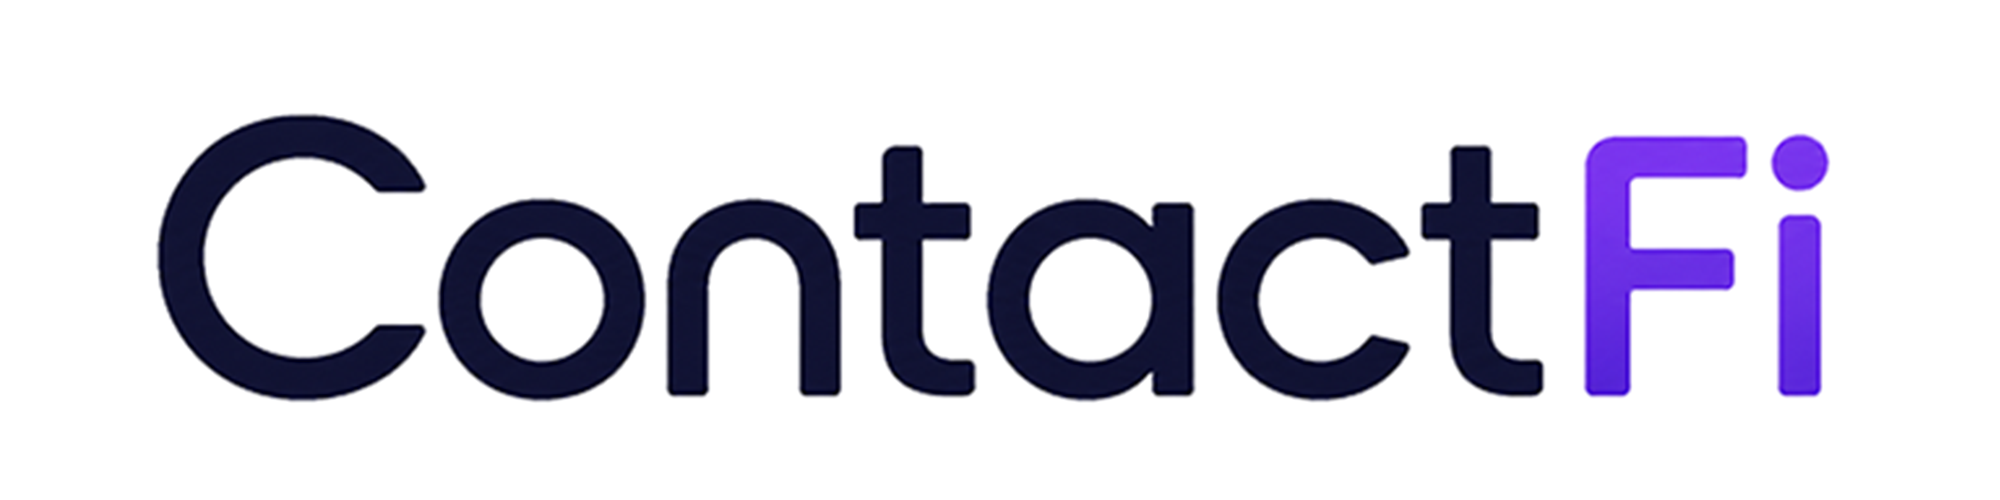
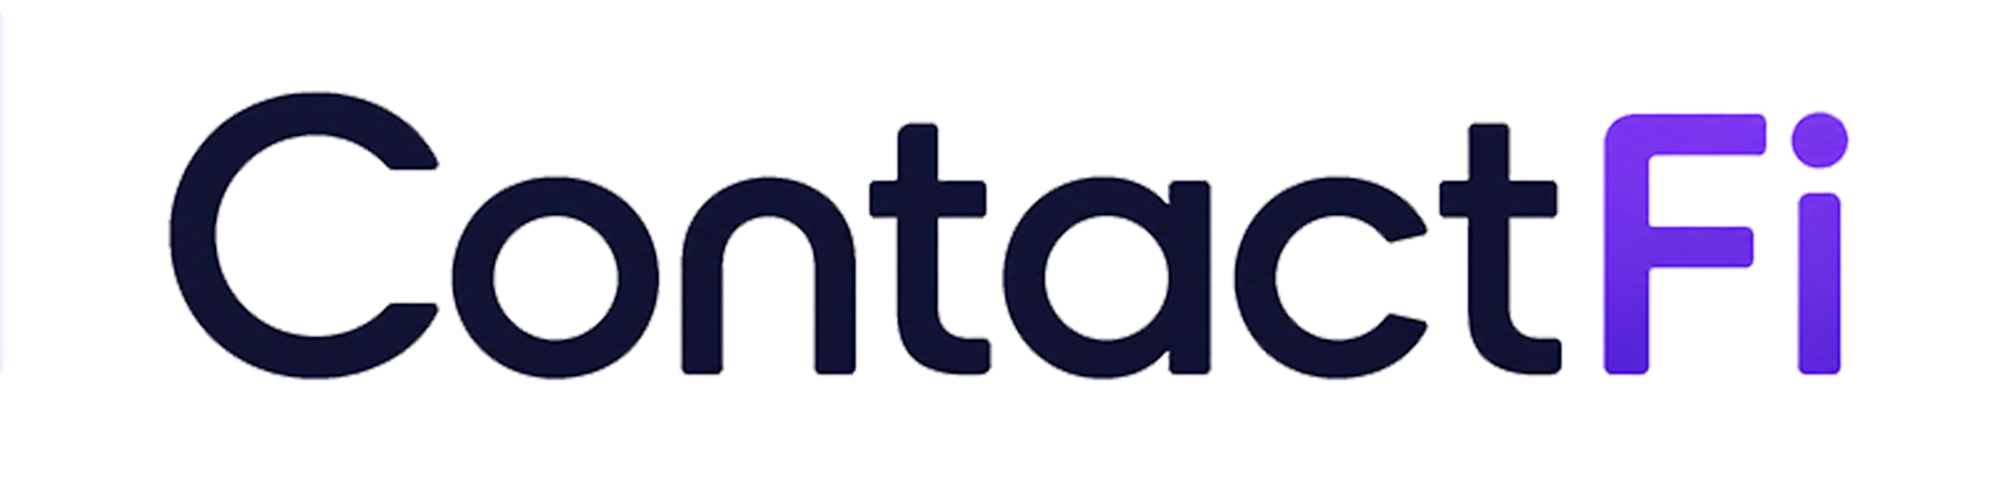
feat: finalize landing page branding and profile UX polish

Changed region(s): [[0.062, 0.21, 0.93, 0.81], [0.093, 0.18, 0.217, 0.39]]

diff --git a/src/app/page.tsx b/src/app/page.tsx
@@ -1,7 +1,8 @@
 "use client";
 import { motion } from "framer-motion";
 import Link from "next/link";
-import { ArrowRight, Code as GithubIcon, Check } from "lucide-react";
+import Image from "next/image";
+import { Code as GithubIcon, Check, ArrowUpRight, Copy } from "lucide-react";
 
 const fadeIn = {
   hidden: { opacity: 0, y: 20 },
@@ -10,10 +11,26 @@ const fadeIn = {
 
 export default function LandingPage() {
   return (
-    <div className="min-h-screen bg-[var(--md-sys-color-background)] text-[var(--md-sys-color-on-background)]">
+    <div className="min-h-screen bg-[#F9FAFB] text-[var(--md-sys-color-on-background)] relative overflow-hidden">
+        <div className="absolute top-[-10%] left-[-10%] w-[50%] h-[50%] bg-blue-100 rounded-full blur-[200px] opacity-30"></div>
+        <div className="absolute top-[20%] right-[-10%] w-[50%] h-[50%] bg-purple-100 rounded-full blur-[200px] opacity-30"></div>
+        <div className="absolute bottom-[-10%] left-[20%] w-[40%] h-[40%] bg-pink-100 rounded-full blur-[200px] opacity-30"></div>
+      
+      {/* Header */}
+      <header className="container mx-auto px-4 pt-12 pb-6 relative z-10">
+        <div className="flex flex-col gap-2">
+            <div className="inline-flex w-fit items-center gap-2 rounded-full border border-[#EDEBFF] bg-[#F9F7FF] px-3 py-1">
+              <span className="text-xs font-medium text-[#6D5DF6]">Powered by Arc</span>
+            </div>
+            <div className="relative w-[180px] h-[36px]">
+                <Image src="/branding/contactfi-wordmark.png" alt="ContactFi" fill className="object-contain" />
+            </div>
+        </div>
+      </header>
+
       {/* Hero */}
-      <section className="container mx-auto flex flex-col items-center justify-center pt-24 pb-16 px-4 text-center">
-        <motion.div initial="hidden" animate="visible" variants={fadeIn} className="inline-flex items-center gap-2 rounded-full border border-[#E5E7EB] bg-[#F3F4F6] px-3 py-1 mb-6">
+      <section className="container mx-auto flex flex-col items-center justify-center pt-16 pb-16 px-4 text-center relative z-10">
+        <motion.div initial="hidden" animate="visible" variants={fadeIn} className="inline-flex items-center gap-2 rounded-full border border-[#E5E7EB] bg-white px-3 py-1 mb-6">
           <span className="h-2 w-2 rounded-full bg-gradient-to-r from-[#6D5DF6] to-[#D64545]"></span>
           <span className="text-xs font-medium text-[#6B7280]">Send USDC on Arc</span>
         </motion.div>
@@ -21,7 +38,7 @@ export default function LandingPage() {
           Send USDC like a message to your contacts.
         </motion.h1>
         <motion.p initial="hidden" animate="visible" variants={fadeIn} className="text-xl text-[#6B7280] mb-10 max-w-lg">
-          No signup required. Just a wallet address.
+          No signup. Just your contacts.
         </motion.p>
         <motion.div initial="hidden" animate="visible" variants={fadeIn} className="flex gap-4">
           <Link href="/contacts" className="rounded-full bg-gradient-to-r from-[#6D5DF6] to-[#D64545] px-8 py-4 font-semibold text-white shadow-lg hover:opacity-90 transition-all">
@@ -35,34 +52,42 @@ export default function LandingPage() {
       </section>
 
       {/* Phone Mockup Placeholder */}
-      <motion.section initial="hidden" animate="visible" variants={fadeIn} className="flex justify-center px-4 mb-24">
+      <motion.section initial="hidden" animate="visible" variants={fadeIn} className="flex justify-center px-4 mb-24 relative z-10">
         <div className="w-64 h-[500px] rounded-[40px] border-8 border-[#1C1C1E] bg-white shadow-2xl overflow-hidden relative">
           <div className="absolute top-0 w-full h-8 bg-black rounded-b-2xl"></div>
-          <div className="p-4 pt-12 text-sm">
-            <div className="text-2xl font-bold mb-8">Contacts</div>
-            <div className="space-y-4">
-                <div className="h-16 rounded-2xl border border-[#E5E7EB] bg-white p-2 flex items-center gap-4">
-                    <div className="w-10 h-10 rounded-full bg-gradient-to-r from-[#6D5DF6] to-[#D64545]"></div>
-                    <div className="w-20 h-4 bg-[#F3F4F6] rounded"></div>
+          <div className="p-4 pt-12 text-sm space-y-4">
+            <div className="bg-gradient-to-br from-[#6D5DF6] to-[#8a7ef9] p-4 rounded-3xl text-white shadow-lg">
+                <div className="text-xs opacity-80">Total Balance</div>
+                <div className="text-2xl font-bold">$1,240.50</div>
+                <div className="text-xs mt-2 opacity-80 font-mono">0xc5c6...dfd8</div>
+            </div>
+            <div className="text-sm font-bold text-gray-500">Recent Transactions</div>
+            <div className="space-y-2">
+                <div className="bg-gray-50 p-2 flex items-center gap-3 border border-gray-100 rounded-2xl">
+                    <div className="w-8 h-8 rounded-full bg-blue-100 flex items-center justify-center font-bold text-blue-600">J</div>
+                    <div className="flex-1 font-semibold text-xs">Jane Doe</div>
+                    <ArrowUpRight className="w-4 h-4 text-red-500"/>
                 </div>
-                <div className="h-16 rounded-2xl border border-[#E5E7EB] bg-white p-2 flex items-center gap-4">
-                    <div className="w-10 h-10 rounded-full bg-[#FF7A59]"></div>
-                    <div className="w-20 h-4 bg-[#F3F4F6] rounded"></div>
+                <div className="bg-gray-50 p-2 flex items-center gap-3 border border-gray-100 rounded-2xl">
+                    <div className="w-8 h-8 rounded-full bg-purple-100 flex items-center justify-center font-bold text-purple-600">A</div>
+                    <div className="flex-1 font-semibold text-xs">Alice</div>
+                    <Check className="w-4 h-4 text-green-500"/>
                 </div>
             </div>
+            <div className="absolute bottom-4 left-4 right-4 bg-[#6D5DF6] text-white p-3 rounded-2xl text-center font-bold text-sm">Send</div>
           </div>
         </div>
       </motion.section>
 
       {/* Problem & Solution */}
-      <section className="py-24 px-4 container mx-auto">
+      <section className="py-24 px-4 container mx-auto relative z-10">
         <div className="grid md:grid-cols-2 gap-12">
-            <div className="p-12 rounded-[32px] border border-[#E5E7EB] bg-white shadow-sm text-center">
+            <div className="p-12 rounded-[32px] border border-[#E5E7EB] bg-gradient-to-b from-white to-[#EBF8FF] shadow-sm text-center">
                 <h2 className="text-sm font-semibold text-[#6B7280] mb-2 uppercase tracking-widest">Problem</h2>
                 <p className="text-3xl font-semibold mb-2">Most payment apps lock users in.</p>
                 <p className="text-[#6B7280]">You can only send money to people already using the same app.</p>
             </div>
-            <div className="p-12 rounded-[32px] border border-[#E5E7EB] bg-gradient-to-b from-[#EDEBFF] to-white shadow-sm text-center">
+            <div className="p-12 rounded-[32px] border border-[#E5E7EB] bg-gradient-to-b from-white to-[#F3EBFF] shadow-sm text-center">
                 <h2 className="text-sm font-semibold text-[#6D5DF6] mb-2 uppercase tracking-widest">Solution</h2>
                 <p className="text-3xl font-semibold mb-2">ContactFi fixes that.</p>
                 <p className="text-[#6B7280]">Send USDC to anyone with a wallet.</p>
@@ -71,14 +96,14 @@ export default function LandingPage() {
       </section>
 
       {/* Features */}
-      <section className="py-24 px-4 container mx-auto">
+      <section className="py-24 px-4 container mx-auto relative z-10">
         <div className="grid md:grid-cols-3 gap-8">
             {[
                 { title: 'Save Contacts', desc: 'Never copy wallet addresses again.' },
                 { title: 'One-Tap Send', desc: 'Choose a contact. Send instantly.' },
                 { title: 'Mobile First', desc: 'Designed for everyday crypto payments.' }
             ].map((f, i) => (
-                <div key={i} className="rounded-[28px] border border-[#E5E7EB] bg-white p-8 shadow-sm">
+                <div key={i} className="rounded-[28px] border border-[#E5E7EB] bg-gradient-to-b from-white to-[#F5F3FF] p-8 shadow-sm">
                     <div className="w-12 h-12 rounded-2xl bg-gradient-to-r from-[#6D5DF6] to-[#D64545] text-white flex items-center justify-center mb-6">
                         <Check className="h-6 w-6" />
                     </div>
@@ -90,12 +115,15 @@ export default function LandingPage() {
       </section>
 
       {/* Footer */}
-      <footer className="py-12 text-center border-t border-[#E5E7EB]">
-        <Link href="https://x.com/ZkFenrir1" target="_blank" className="flex flex-col items-center gap-3">
-          <img src="https://unavatar.io/twitter/ZkFenrir1" alt="ZkFenrir1" className="w-12 h-12 rounded-full border-2 border-[#6D5DF6]" />
-          <span className="font-medium">ZkFenrir1</span>
-        </Link>
-        <div className="mt-6">
+      <footer className="py-12 text-center border-t border-[#E5E7EB] bg-gradient-to-b from-white to-[#FFF5F7] relative z-10">
+        <div className='flex flex-col items-center gap-2 mb-4'>
+            <span className='text-sm text-[#6B7280]'>Built by</span>
+            <Link href="https://x.com/ZkFenrir1" target="_blank" className="flex flex-col items-center gap-3">
+            <img src="https://unavatar.io/twitter/ZkFenrir1" alt="ZkFenrir1" className="w-12 h-12 rounded-full border-2 border-[#6D5DF6]" />
+            <span className="font-medium">ZkFenrir1</span>
+            </Link>
+        </div>
+        <div>
             <Link href="https://github.com" target="_blank" className="text-[#6B7280] hover:text-[#1C1C1E]">GitHub</Link>
         </div>
       </footer>

diff --git a/src/app/settings/profile/page.tsx b/src/app/settings/profile/page.tsx
@@ -1,14 +1,52 @@
 "use client";
 
 import Link from 'next/link';
-import { ArrowLeft, Wallet, Network, Package, Copy, Check } from 'lucide-react';
-import { useState } from 'react';
+import { ArrowLeft, Wallet, Network, Package, Copy, Check, Edit2, Save } from 'lucide-react';
+import { useState, useEffect, useRef } from 'react';
 import { Avatar } from '@/components/ui';
 import { useWallet } from '@/context/WalletContext';
 
 export default function ProfilePage() {
   const { walletAddress, walletName, chainId } = useWallet();
   const [copied, setCopied] = useState(false);
+  const [isEditing, setIsEditing] = useState(false);
+  
+  const [name, setName] = useState('User Name');
+  const [username, setUsername] = useState('@username');
+  const [bio, setBio] = useState('My bio');
+  const [avatar, setAvatar] = useState<string | null>(null);
+  
+  const fileInputRef = useRef<HTMLInputElement>(null);
+
+  useEffect(() => {
+    if(walletAddress) {
+        setName(localStorage.getItem(`profile-${walletAddress}-name`) || 'User Name');
+        setUsername(localStorage.getItem(`profile-${walletAddress}-username`) || '@username');
+        setBio(localStorage.getItem(`profile-${walletAddress}-bio`) || 'My bio');
+        setAvatar(localStorage.getItem(`profile-${walletAddress}-avatar`) || null);
+    }
+  }, [walletAddress]);
+
+  const handleSave = () => {
+    if(walletAddress) {
+        localStorage.setItem(`profile-${walletAddress}-name`, name);
+        localStorage.setItem(`profile-${walletAddress}-username`, username);
+        localStorage.setItem(`profile-${walletAddress}-bio`, bio);
+        if(avatar) localStorage.setItem(`profile-${walletAddress}-avatar`, avatar);
+    }
+    setIsEditing(false);
+  };
+
+  const handleFileChange = (e: React.ChangeEvent<HTMLInputElement>) => {
+    const file = e.target.files?.[0];
+    if (file) {
+      const reader = new FileReader();
+      reader.onloadend = () => {
+        setAvatar(reader.result as string);
+      };
+      reader.readAsDataURL(file);
+    }
+  };
 
   const handleCopy = async () => {
     if (!walletAddress) return;
@@ -24,17 +62,49 @@ export default function ProfilePage() {
   return (
     <div className="min-h-screen bg-[var(--md-sys-color-background)] p-4 pb-24">
       <div className="py-4">
-        <Link href="/settings" className="mb-6 inline-flex items-center gap-2 rounded-full border border-[#E5E7EB] bg-white px-3 py-2 text-sm font-medium text-[#1C1C1E] shadow-sm">
-          <ArrowLeft className="h-4 w-4" />
-          Back
-        </Link>
+        <div className="flex justify-between items-center mb-6">
+            <Link href="/settings" className="inline-flex items-center gap-2 rounded-full border border-[#E5E7EB] bg-white px-3 py-2 text-sm font-medium text-[#1C1C1E] shadow-sm">
+            <ArrowLeft className="h-4 w-4" />
+            Back
+            </Link>
+            <button onClick={() => isEditing ? handleSave() : setIsEditing(true)} className="inline-flex items-center gap-2 rounded-full border border-[#E5E7EB] bg-white px-3 py-2 text-sm font-medium text-[#1C1C1E] shadow-sm">
+                {isEditing ? <><Save className="h-4 w-4" /> Save</> : <><Edit2 className="h-4 w-4" /> Edit Profile</>}
+            </button>
+        </div>
 
         <div className="rounded-[32px] border border-[#E5E7EB] bg-white p-6 shadow-[0_8px_24px_rgba(17,24,39,0.06)]">
-          <div className="mb-6 flex items-center gap-4">
-            <Avatar initials="ME" color="#6D5DF6" size="lg" />
-            <div>
-              <div className="text-lg font-semibold text-[#1C1C1E]">My Profile</div>
-              <div className="text-sm text-[#6B7280]">Wallet details and app info</div>
+          <div className="mb-6 flex flex-col items-center text-center gap-4">
+            <div className='relative cursor-pointer' onClick={() => isEditing && fileInputRef.current?.click()}>
+                {avatar ? <img src={avatar} alt="Avatar" className="w-24 h-24 rounded-full object-cover" /> : <Avatar initials={name.substring(0,2).toUpperCase()} color="#6D5DF6" size="lg" />}
+                {isEditing && <div className='absolute inset-0 bg-black/50 rounded-full flex items-center justify-center text-white'><Edit2 className='w-6 h-6'/></div>}
+                <input type="file" ref={fileInputRef} className='hidden' accept="image/*" onChange={handleFileChange} />
+            </div>
+            
+            <div className='w-full'>
+                <div className="text-xl font-bold text-[#1C1C1E] mb-1">My Profile</div>
+                {isEditing ? (
+                                <div className='space-y-4 w-full text-left'>
+                                    <div>
+                                        <label className='text-xs font-semibold text-[#6B7280]'>Name</label>
+                                        <input type="text" value={name} onChange={(e) => setName(e.target.value)} className="w-full text-lg font-semibold border rounded-lg p-2 mt-1" />
+                                    </div>
+                                    <div>
+                                        <label className='text-xs font-semibold text-[#6B7280]'>Username</label>
+                                        <input type="text" value={username} onChange={(e) => setUsername(e.target.value)} className="w-full text-sm text-[#6B7280] border rounded-lg p-2 mt-1" />
+                                    </div>
+                                    <div>
+                                        <label className='text-xs font-semibold text-[#6B7280]'>Bio</label>
+                                        <textarea value={bio} onChange={(e) => setBio(e.target.value)} className="w-full text-sm text-[#6B7280] border rounded-lg p-2 mt-1" />
+                                    </div>
+                                </div>
+                            ) : (
+                                <div>
+                                    <div className="text-lg font-semibold text-[#1C1C1E]">{name}</div>
+                                    <div className="text-sm text-[#6D5DF6]">{username}</div>
+                                    <div className="text-sm text-[#6B7280] mt-1">{bio}</div>
+                                </div>
+                            )}
+
             </div>
           </div>
 

diff --git a/src/app/settings/page.tsx b/src/app/settings/page.tsx
@@ -1,6 +1,6 @@
 "use client";
 import Link from 'next/link';
-import { useState } from 'react';
+import { useState, useEffect } from 'react';
 import { Card, SectionHeader, Avatar } from '@/components/ui';
 import {
   Moon,
@@ -12,6 +12,7 @@ import {
   ChevronRight,
   Sparkles,
 } from 'lucide-react';
+import { useWallet } from '@/context/WalletContext';
 
 type DialogState = {
   title: string;
@@ -19,8 +20,21 @@ type DialogState = {
 } | null;
 
 export default function SettingsPage() {
+  const { walletAddress } = useWallet();
   const [notifications, setNotifications] = useState(true);
   const [dialog, setDialog] = useState<DialogState>(null);
+  
+  const [profile, setProfile] = useState({ name: 'My Profile', username: '@username', avatar: null as string | null });
+
+  useEffect(() => {
+    if(walletAddress) {
+      setProfile({
+        name: localStorage.getItem(`profile-${walletAddress}-name`) || 'My Profile',
+        username: localStorage.getItem(`profile-${walletAddress}-username`) || '@username',
+        avatar: localStorage.getItem(`profile-${walletAddress}-avatar`) || null,
+      });
+    }
+  }, [walletAddress]);
 
   return (
     <div className="min-h-screen bg-[var(--md-sys-color-background)] p-4 pb-24">
@@ -34,10 +48,14 @@ export default function SettingsPage() {
 
       <Link href="/settings/profile" className="mb-8 block">
         <Card className="flex items-center gap-4 border-none bg-[#EDEBFF]">
-          <Avatar initials="ME" color="#6D5DF6" size="lg" />
+          {profile.avatar ? (
+            <img src={profile.avatar} alt="Avatar" className="w-12 h-12 rounded-full object-cover" />
+          ) : (
+            <Avatar initials={profile.name.substring(0,2).toUpperCase()} color="#6D5DF6" size="lg" />
+          )}
           <div>
-            <div className="font-semibold text-[#2F2A6B]">My Profile</div>
-            <div className="text-sm text-[#6B7280]">Manage your identity</div>
+            <div className="font-semibold text-[#2F2A6B]">{profile.name}</div>
+            <div className="text-sm text-[#6B7280]">{profile.username}</div>
           </div>
           <ChevronRight className="ml-auto h-5 w-5 text-[#6D5DF6]" />
         </Card>

diff --git a/src/components/SendFlow.tsx b/src/components/SendFlow.tsx
@@ -8,7 +8,7 @@ import { Send, CheckCircle2, ExternalLink, Copy, AlertCircle } from 'lucide-reac
 export const SendFlow = ({ recipient, onClose, onTransactionComplete }: { recipient: { name: string; address?: string; wallets?: any[] }; onClose: () => void; onTransactionComplete: (tx: any) => void }) => {
   const { adapter, walletAddress, walletName, chainId, isConnected, refreshChain, switchToArcTestnet } = useWallet();
   const [sendStep, setSendStep] = useState<'network' | 'review' | 'sending' | 'success' | 'error'>('network');
-  const [amount, setAmount] = useState('10');
+  const [amount, setAmount] = useState('');
   const [manualAddress, setManualAddress] = useState(recipient.address || '');
   const [selectedWalletId, setSelectedWalletId] = useState('');
   const [estimatedGas, setEstimatedGas] = useState<string | null>(null);
@@ -34,7 +34,7 @@ export const SendFlow = ({ recipient, onClose, onTransactionComplete }: { recipi
         setSendStep('network');
         return;
       }
-      await prepareReview();
+      setSendStep('review');
     };
     init();
   }, []);
@@ -72,7 +72,7 @@ export const SendFlow = ({ recipient, onClose, onTransactionComplete }: { recipi
     try {
       const result = await switchToArcTestnet();
       if (result.ok) {
-        await prepareReview();
+        setSendStep('review');
       } else {
         setSendStep('error');
         setSendError(result.error || 'Arc Testnet could not be activated.');
@@ -134,7 +134,7 @@ export const SendFlow = ({ recipient, onClose, onTransactionComplete }: { recipi
 
   return (
     <div className="fixed inset-0 z-50 flex items-center justify-center bg-black/40 p-4">
-      <div className="flex max-h-[90vh] w-full max-w-md flex-col rounded-[32px] border border-[#E5E7EB] bg-white p-6 shadow-[0_16px_40px_rgba(17,24,39,0.16)]">
+      <div className="flex max-h-[80vh] w-full max-w-md flex-col rounded-[32px] border border-[#E5E7EB] bg-white p-6 shadow-[0_16px_40px_rgba(17,24,39,0.16)]">
         <div className="mb-4 flex items-center justify-between flex-shrink-0">
           <div>
             <div className="text-[11px] font-semibold uppercase tracking-[0.24em] text-[#6B7280]">Send USDC</div>
